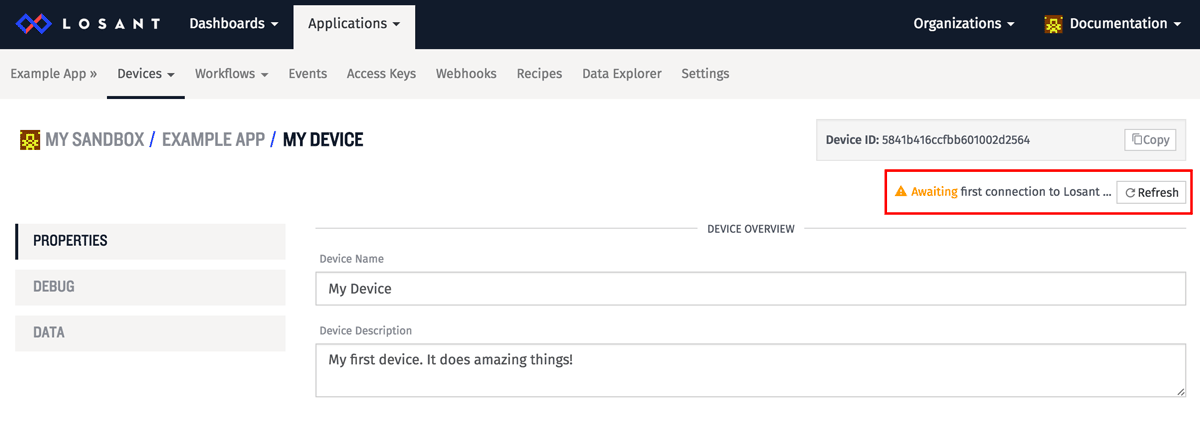
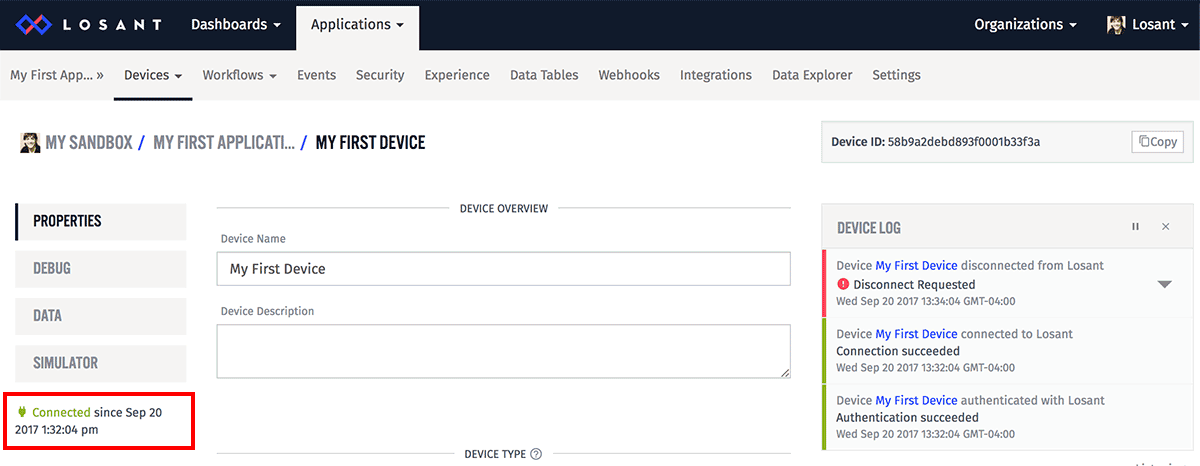
simulator docs, images crunched

diff --git a/docs/devices/simulator.md b/docs/devices/simulator.md
@@ -1,0 +1,84 @@
+description: Learn how to use your web browser to connect to the Losant broker and test your devices and workflows.
+
+# Device Simulator
+
+The device simulator makes it possible to test [devices](/devices/overview/) configured within your application, and how events and messages emitted by those devices affect your IoT solutions. By treating your web browser as a stand-in for the device, the simulator allows for quickly testing state reports and connection events and how, for example, the [workflows](/workflows/overview/) they trigger affect your application as a whole.
+
+![Device Simulator](/images/devices/simulator-overview.png "Device Simulator")
+
+The device simulator can be reached from the device's overview page, by clicking the "Simulator" link in the left column.
+
+## Connection Manager
+
+The device simulator works by establishing a connection between [Losant broker](/mqtt/overview/#the-losant-message-broker) and your web browser, authenticating the browser as the device itself. The simulator's connection status is displayed in the connection manager's header.
+
+To get started, paste any [access key and secret](/applications/access-keys/) that is scoped to your device into the connection manager's input fields and click the "Connect" button. If authentication succeeds, the simulator will connect.
+
+![Simulator Connection Manager](/images/devices/simulator-connection-manager.png "Simulator Connection Manager")
+
+You may also generate an access key and secret scoped to the selected device directly from the connection manager by clicking "Generate Key/Secret". This will auto-fill the input fields with the newly created credentials. You may also download the generated key and secret for future use. The credentials will work not only for the simulator, but also for connecting to the Losant broker through the device itself.
+
+To disconnect the simulator, click the "Disconnect" button at the bottom of the connection manager. **The simulator will also disconnect if you navigate your browser away from the simulator page.**
+
+### Connections From Other Sources
+
+A device may only hold one connection to the Losant broker at a time; therefore, if the device is already connected to the broker, you will be unable to connect the device simulator until that device's connection has been broken. This is to prevent the simulator from kicking a real, deployed device offline.
+
+![Simulator Blocked](/images/devices/simulator-blocked.png "Simulator Blocked")
+
+Likewise, if the simulator is connected and a connection event comes in from another source (such as the device itself), the simulator will disconnect and will not attempt to reconnect.
+
+## Test Scripts
+
+Test scripts allow for reporting state for your device's attributes on a regular interval. Any attribute can be included in (or excluded from) the state reports, and static or randomly generated values can be used in each report. The script is managed in the "Test Script" tab beneath the connection manager.
+
+![Simulator Test Script](/images/devices/simulator-test-script.png "Simulator Test Script")
+
+### Configuration
+
+You will see a section for each of your device's attributes within the test script configuration panel. For each attribute, you have three top-level options:
+
+- **No value** excludes the attribute from the script's state report.
+- **Set a static value ...** reports the same value for that attribute with each script run. This value must validate against the attribute's type; for example, strings cannot be reported for number attributes.
+- **Set a random value ...** reports a random value with each state report. That random value requires some constraint configuration, which is different for each attribute type ...
+    - **Numbers** require a minimum and maximum value (inclusive). The randomly generated number will always be an integer.
+    - **Strings** require a defined string length. The generated value will be any combination of uppercase letters, lowercase letters and numbers matching that length.
+    - **GPS attributes** require a center point in an [accepted GPS format](/devices/state/#state-attributes) and a radius in meters. All generated points will fall within that circle.
+    - **Booleans** require no additional configuration. The value will report as either `true` or `false`.
+
+### Running Test Scripts
+
+At the bottom of the script manager is an input for setting the interval (in seconds) at which this script should run. For example, if the script is set to run every 5 seconds, the values configured in the script will generate and report state for the device once every 5 seconds.
+
+The script can only be started if the device simulator is connected. The script will stop when the "Stop Script" button is clicked or when the simulator disconnects (manually, through network error or due to another connection event).
+
+## Single State Reports
+
+Individual state reports may also be submitted whenever the simulator is connected, even while a test script is running. Click the "Single Report" tab next to the "Test Script" tab to configure and submit a single state report.
+
+![Simulator Single State Report](/images/devices/simulator-single-report.png "Simulator Single State Report")
+
+Submitting an individual state report is useful for testing data anomalies; for example, if a test script is reporting "normal" values on a regular basis, you can submit a single state report with "irregular" data in the middle of a script run to see how your workflows respond.
+
+### Configuration
+
+Each of your device's attributes will be displayed within the configuration panel, along with inputs that are respective of the attribute types. A value may be supplied for any or all attributes, though just like with the test scripts, each value must validate against the attribute type.
+
+## Simulator Log
+
+The simulator log is a log of all events emitted by the simulator, **not events from the device itself.** This is an important distinction to understand when testing your devices and comparing simulator output to what is actually registered as data against the device.
+
+![Simulator Log](/images/devices/simulator-log.png "Simulator Log")
+
+For example, say you have a [test script](#test-scripts) reporting a number attribute's value as a random number between 1 and 100 every second. Within your application, you may have a workflow with a [device state trigger](/workflows/triggers/device/) for the device you're simulating, and that workflow could, for example ...
+
+- Cap the attribute's value at 75 and re-report the device's number attribute as `75`.
+- Only accept state reports on a five-second interval, throwing away any state report that comes within five seconds of the previously accepted report.
+- Round the number attribute to the nearest 10 and re-report state.
+- Report state for a completely different attribute based on the value of the number attribute being reported, and reporting that value at the same timestamp as the original state report. If you happened to report a value for the unrelated attribute in the same state report, that value would be overridden.
+
+The simulator log will only reflect the output of the test script, and not the data manipulations described in the situations above.
+
+## Limitations
+
+Currently, the device simulator can only be used to test [standalone and gateway devices](/devices/overview/#device-type). Peripheral devices cannot connect to the platform directly and instead require a gateway to report on their behalf, which is not supported in the simulator at this time.

diff --git a/docs/devices/overview.md b/docs/devices/overview.md
@@ -1,6 +1,8 @@
+description: Learn more about configuring internet-connected devices in the Losant platform.
+
 # Devices
 
-A device in Losant is a single thing or widget. A device could be car, thermostat, smart bulb, or any kind of custom gadget. Devices can contain many sensors or attached peripherals.
+A device in Losant is a single thing or widget. A device could be a car, thermostat, smart bulb, or any kind of custom gadget. Devices can contain many sensors or attached peripherals.
 
 ## Adding a Device
 
@@ -22,22 +24,20 @@ Properly configuring devices is an important step to ensuring proper communicati
 
 The first thing to configure is the type of device.  This is not about the actual physical
 type of the device, but more about how you expect the device to connect and report state
-to the Losant Platform.  There are 3 categories, but in most cases you will be choosing
-the first, `Standalone`.
+to the Losant Platform.  There are three categories ...
 
 *   **Standalone**  
-A standalone device is your normal everyday type of device.  It is allowed to connect
-directly to Losant and report its own state.
+A standalone device is your normal everyday type of device. It is allowed to connect
+directly to Losant and report its own state. In most cases, this is the device type you will choose.
 
 *   **Gateway**  
 A gateway device is a device that connects to Losant and reports both its own state and the
-state of other devices - i.e., other devices that use this device as a "gateway".  Gateways
+state of other devices - i.e., other devices that use this device as a "gateway". Gateways
 are extremely useful for helping to report the state of non-internet connected devices to Losant - such as Bluetooth sensors.
 
 *   **Peripheral**  
-A peripheral device does not connect directly to Losant - instead they report their
-state to a gateway device, and that gateway pushes that state to Losant.  When choosing
-peripheral as the device type, there are two options. You can either choose to let the device report state through any gateway in the application (which is useful for devices that move through the range of multiple gateways), or you can choose to only allow reporting through a specific gateway (useful for static or directly connected devices).
+A peripheral device does not connect directly to Losant - instead it reports its
+state to a gateway device (which is connected to the internet), and that gateway pushes the peripheral's state to Losant. When choosing peripheral as the device type, there are two options. You can either choose to let the device report state through any gateway in the application (which is useful for devices that move through the range of multiple gateways), or you can choose to only allow reporting through a specific gateway (useful for static or directly connected devices).
 
 ### Device Attributes
 
@@ -63,7 +63,7 @@ Once the device is added and successfully connected to Losant, there are several
 
 ### Connection Status
 
-The current connection status of your device is always available at the top of the device page.  For peripheral type devices, the connection status of the gateway device it is configured to use is displayed.
+The current connection status of your device is always available beneath the device page's subnavigation. For peripheral type devices, the connection status of the gateway device it is configured to use is displayed.
 
 ![Connection Status](/images/devices/connection-status.png "Connection Status")
 
@@ -71,7 +71,7 @@ For Standalone and Gateway type devices, you can also view a log of recent devic
 
 ![Connection Log](/images/devices/connection-log.png "Connection Log")
 
-Whenever a device is disconnected the log will contain the reason and the number of messages sent and received during the connected period. Typically messages sent correspond to state updates and message received correspond to commands.
+Whenever a device is disconnected the log will contain the reason and the number of messages sent and received during the connected period. Typically messages sent correspond to [state updates](/devices/state/) and messages received correspond to [commands](/devices/commands/). The list will automatically update as new connection events come in.
 
 ### Debugging
 
@@ -79,11 +79,11 @@ Losant provides several tools on the device page to help debug communication bet
 
 #### Recent Device States
 
-To debug whether or not your device is sending state to Losant, you can use the `Recent Device States` log under the debug section of the device page.
+To debug whether your device is sending state to Losant, you can use the `Recent Device States` log under the debug section of the device page.
 
 ![Recent Device States](/images/devices/state-log.png "Recent Device States")
 
-This list will display the most recent 10 states published to Losant by this device. It displays the raw JSON data that represents a state request. This list will automatically update once a minute, but you can force a refresh at any time by clicking the `Refresh` button on the bottom right.
+This list will display the 25 most recent states published to Losant by this device. It displays the raw JSON data that represents a state request. This list will automatically update as new state requests come in.
 
 #### Force State
 
@@ -117,6 +117,16 @@ Timestamp,ISO Date,location,temperature
 ![Delete Device Data](/images/devices/data-deletion.png "Delete Device Data")
 
 In the case where you no longer want the data for a device or you want to clear out old incorrect data, you can do so with the "Delete Device Data" form under the data section of the device page. This will remove either all data for the device or data for a specific time range that you select - state data for attributes, connection log history, and command history. Data deletion may take a few seconds to propagate through the system, but cannot be reversed or undone, so do not press this button lightly!
+
+## Device Communication Log
+
+The device communication log is similar to the [application communication log](/applications/overview/#communication-log) in that is displays a real-time stream of events; it differs from the application log in that these events are specific to the device currently being viewed, instead of across the application as a whole. A number of different events will display within the log, such as:
+
+- State reports for the device, whether they come via the device itself through the [Losant broker](/mqtt/overview/#the-losant-message-broker), via a [workflow](/workflows/overview/) or through the [Losant REST API](/rest-api/device/#send-state).
+- [Commands](/devices/commands/) sent to the device, sent via any of the channels mentioned above.
+- Device connection, disconnection and authentication events. For peripheral devices, the log will display these events for the peripheral's gateway.
+
+Arbitrary topics the device publishes to or is subscribed to will not display within the device communication log.
 
 ## Exporting Devices
 

diff --git a/docs/applications/overview.md b/docs/applications/overview.md
@@ -1,3 +1,5 @@
+description: Applications are the basic scoping mechanism within the Losant platform. Learn more about creating and managing applications.
+
 # Applications
 
 All [devices](/devices/overview/) and [workflows](/workflows/overview/) belong to a single application. Users can have multiple applications as needed. [Dashboards](/dashboards/overview/) do not belong to an application since a single dashboard can contain graphs and blocks for several different applications.
@@ -24,15 +26,11 @@ Applications can be deleted on the settings page. Deleting an application cannot
 
 ## Communication Log
 
-The Communication Log is a real-time log that will display helpful information about various aspects of your Losant Application. It's most useful for debugging purposes.
+The Communication Log is a real-time log that displays helpful information about various aspects of your Losant application. It's most useful for debugging purposes.
 
 ![Communication Log](/images/applications/communication-log-full.png "Communication Log")
 
-As a real-time tool, the Communication Log will always begin in an empty state.
-
-![Communication Log](/images/applications/communication-log-empty.png "Communication Log")
-
-Logs will appear as actions on your Application take place. Logs will show for the following cases:
+As a real-time tool, the Communication Log will always begin in an empty state. Logs will appear as actions on your application take place. Logs will show for the following cases:
 
 ### MQTT
 
@@ -63,4 +61,4 @@ Logs will appear as actions on your Application take place. Logs will show for t
 
 ![Application Globals](/images/applications/application-globals.png "Application Globals")
 
-Application globals are a set of key/value pairs that are accessible inside of any workflow in the current application. This is a great place to store application wide configuration that is used across multiple workflows, like phone numbers or API keys. Any values configured here are accessible under the globals object on the payload in a workflow run. Application globals can be overridden within a workflow by defining a different value at the same key in the globals for that specific workflow. You can read more about workflow globals [here](/workflows/overview/#workflow-globals).
+Application globals are a set of key/value pairs that are accessible inside of any workflow in the current application. This is a great place to store application-wide configuration that is used across multiple workflows, like phone numbers or API keys. Any values configured here are accessible under the globals object on the payload in a workflow run. Application globals can be overridden within a workflow by defining a different value at the same key in the globals for that specific workflow. You can read more about workflow globals [here](/workflows/overview/#workflow-globals).
